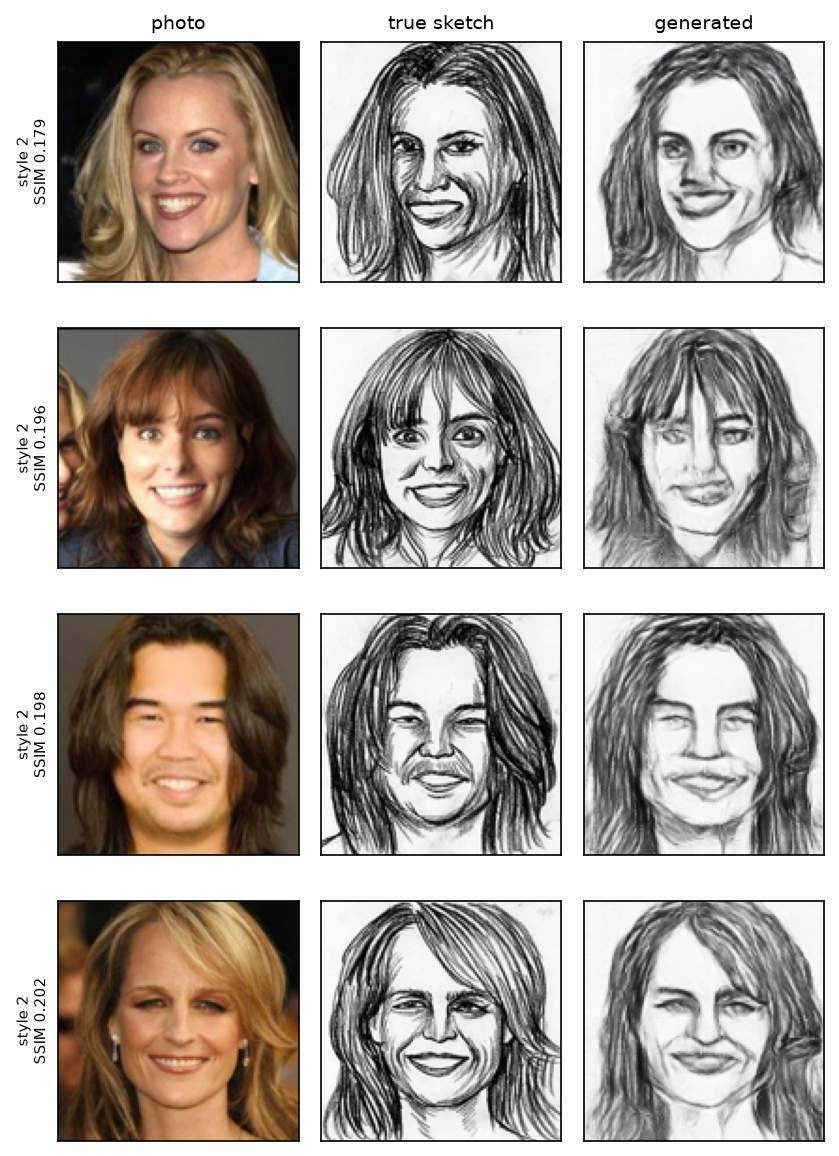
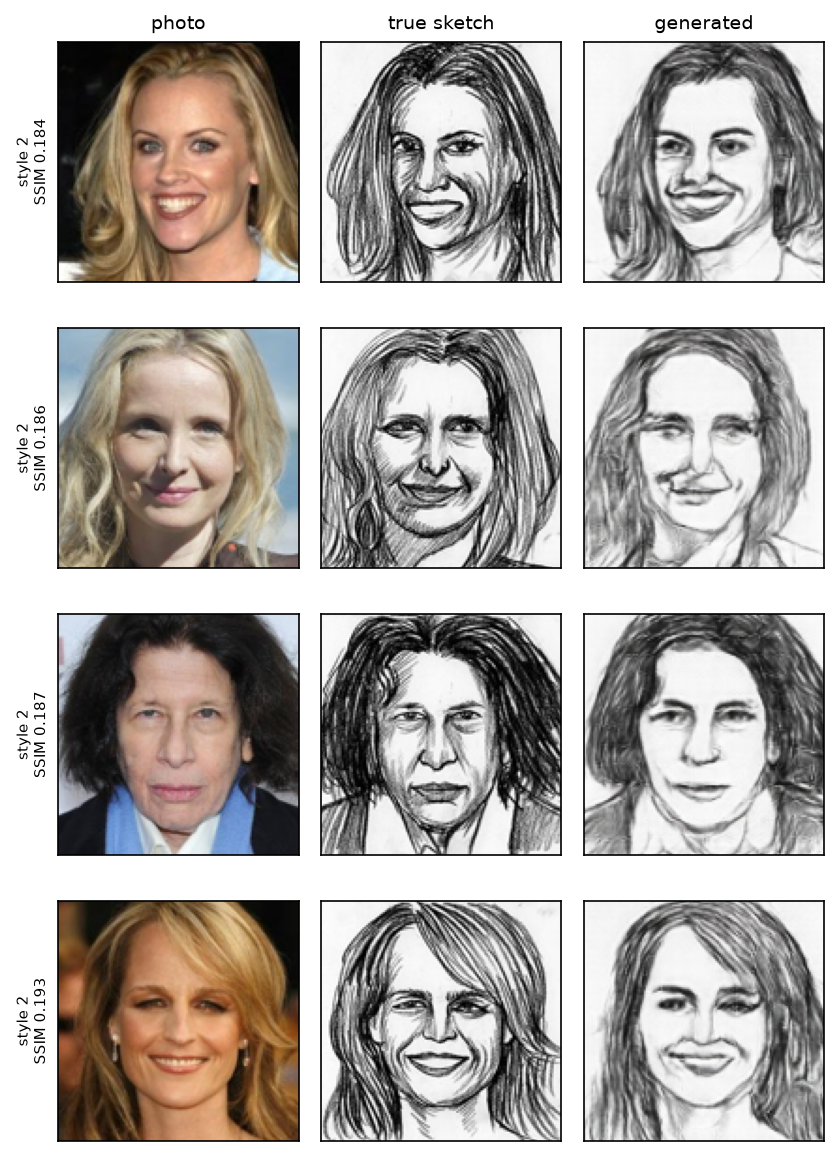
Adopt the 200-epoch Task 4 GAN (better validation objective) and update the report and documents

diff --git a/report/outputs_gallery.html b/report/outputs_gallery.html
@@ -262,7 +262,7 @@ p{margin:6px 0} nav a{margin-right:12px}
 <p class="file">report/figures/task4_cgan_curves.png</p>
 <p><span class="label">What it shows:</span> Discriminator real and fake loss, generator adversarial loss, generator L1, validation SSIM and objective per epoch.</p>
 <p><span class="label">How to read it:</span> Healthy GAN training: the losses oscillate but do not blow up.</p>
-<p><span class="label">What it means:</span> The discriminator slowly gains the upper hand (normal), nothing collapsed, and validation SSIM was still creeping up at epoch 100.</p>
+<p><span class="label">What it means:</span> The discriminator slowly gains the upper hand (normal) and nothing collapsed. Validation SSIM is flat after about 100 of the 200 epochs: the GAN had converged.</p>
 </div>
 <div class="card"><h3>Optuna search for Task 4</h3>
 <img src="figures/task4_cgan_optuna.png" alt="Optuna search for Task 4">

diff --git a/report/main.tex b/report/main.tex
@@ -1434,7 +1434,7 @@ range.
 \subsection{Training procedure and logging}
 Each iteration first updates $D$ on a real and a generated (detached) pair,
 then updates $G$. Both use Adam with $\beta=(0.5,0.999)$ and constant
-learning rates; the final configuration is trained for 100 epochs with the
+learning rates; the final configuration is trained for 200 epochs with the
 paired augmentation of Section~\ref{sec:data}. The discriminator real loss,
 discriminator fake loss, generator adversarial loss and generator L1 loss
 are logged separately every epoch, together with the validation L1, PSNR and
@@ -1462,8 +1462,11 @@ epochs are run (TPE, median pruner with three start-up trials and six
 warm-up epochs; reduced from twelve trials of 25 epochs for time); trial~0
 is fixed to the pix2pix-style defaults (learning rates
 $2\times10^{-4}$, batch size 4, $c=64$, dropout 0.5, $d_s=16$,
-$\lambda_{L1}=100$). The best configuration is then retrained for 100
-epochs (halved from the planned 200 for time). Batch size 1 was removed from
+$\lambda_{L1}=100$). The best configuration was first retrained for 100
+epochs to save time, and later, when time allowed, for the planned 200
+epochs; the 200-epoch model was kept because its validation objective was
+lower (0.3030 against 0.3073, best epochs 198 and 94). The test set was not
+used for this choice. Batch size 1 was removed from
 the search space because it made trials too slow. Table~\ref{tab:task4_space} gives the search space.
 
 \begin{table}[t]
@@ -1504,16 +1507,20 @@ its ONNX file is 168.5\,MB.
 \label{fig:task4_curves}
 \end{figure}
 
-Fig.~\ref{fig:task4_curves} shows the four losses logged separately. The
-discriminator's real and fake losses fall together from about 0.35 to 0.25,
-and the generator's adversarial loss rises from about 2.7 to 3.9: the
-discriminator slowly gains the upper hand, as is typical for pix2pix-style
-training, but neither loss collapses to zero and the L1 term keeps the
-generator anchored, so training did not diverge. The generator's L1 loss
-and the validation objective improve steadily, and validation SSIM rises
-from 0.41 to 0.48, still creeping upwards at epoch 100, so the halved
-schedule probably cost some quality. The fixed validation photographs logged
-to W\&B every 10 epochs show the sketches sharpening over time.
+Fig.~\ref{fig:task4_curves} shows the four losses of the 200-epoch run,
+logged separately. The discriminator's real and fake losses fall together
+from about 0.35 to about 0.22, and the generator's adversarial loss rises
+from about 2.7 to 4.5: the discriminator slowly gains the upper hand, as is
+typical for pix2pix-style training, but neither loss collapses to zero and
+the L1 term keeps the generator anchored, so training did not diverge. The
+validation SSIM rises from 0.41 to about 0.48 within the first 100 epochs
+and then stays flat, while the generator's training L1 keeps decreasing:
+after about 100 epochs the generator fits the training pairs more closely
+without becoming better on unseen ones. The test results confirm this: the
+100-epoch model scored SSIM 0.472 and the 200-epoch model 0.473 (PSNR 15.50
+and 15.37\,dB), so the longer schedule changed practically nothing. The
+fixed validation photographs logged to W\&B every 10 epochs show the
+sketches sharpening early in training.
 
 \begin{table}[t]
 \centering
@@ -1524,10 +1531,10 @@ to W\&B every 10 epochs show the sketches sharpening over time.
 \toprule
 Group & Count & L1 & PSNR & SSIM \\
 \midrule
-All     & 1046 & 0.1068 & 15.50 & 0.472 \\
-Style 1 & 619 & 0.0802 & 17.25 & 0.521 \\
-Style 2 & 381 & 0.1542 & 12.34 & 0.377 \\
-Style 3 & 46 & 0.0715 & 17.96 & 0.603 \\
+All     & 1046 & 0.1075 & 15.37 & 0.473 \\
+Style 1 & 619 & 0.0803 & 17.12 & 0.519 \\
+Style 2 & 381 & 0.1562 & 12.17 & 0.381 \\
+Style 3 & 46 & 0.0691 & 18.23 & 0.608 \\
 \bottomrule
 \end{tabular}
 \\[3pt]
@@ -1549,8 +1556,8 @@ Style 3 & 46 & 0.0715 & 17.96 & 0.603 \\
 \end{figure}
 
 On the official test split (Table~\ref{tab:task4_results}) the generated
-sketches reach SSIM 0.472 overall, with a clear split between styles: Style~2
-is much harder (SSIM 0.377) than Styles~1 and 3 (0.521 and 0.603). Style~2
+sketches reach SSIM 0.473 overall, with a clear split between styles: Style~2
+is much harder (SSIM 0.381) than Styles~1 and 3 (0.519 and 0.608). Style~2
 sketches are dense, high-contrast drawings with many individual hair
 strokes, whose exact positions cannot be predicted from the photograph, so
 any plausible stroke pattern is penalised pixel by pixel; Styles~1 and 3 are
@@ -1568,11 +1575,10 @@ sketch, while identity, pose and hairstyle are preserved across all three.
 \label{fig:task4_failures}
 \end{figure}
 All four lowest-SSIM test pairs (Fig.~\ref{fig:task4_failures}, SSIM
-0.18--0.20) are Style~2 portraits of smiling people with long, voluminous
-hair. The generated sketches are recognisable and in the right style, but
-the artist's individual hair strokes and the exaggerated smile lines are
-placed differently from the ground truth, and the generator's strokes are
-softer. These are therefore failures of the pixel-wise metric as much as of
+0.18--0.19) are Style~2 portraits of people with long, voluminous hair. The
+generated sketches are recognisable and in the right style, but the
+artist's individual hair strokes and facial lines are placed differently
+from the ground truth, and the generator's strokes are softer. These are therefore failures of the pixel-wise metric as much as of
 the model: SSIM cannot reward a plausible but different stroke pattern.
 
 \subsection{Discussion}
@@ -1599,7 +1605,9 @@ The wall-clock times below are taken from the W\&B run records; each epoch
 includes its validation pass. The final trainings took 43\,min for the
 Task~1 autoencoder (80 epochs; 44\,min for the skip variant), 2.8\,min for the
 classifier (25 epochs), about 19.5\,min for each specialist (40 epochs),
-22\,min for the mixture (17 epochs) and 34\,min for the GAN (100 epochs). The
+22\,min for the mixture (17 epochs) and 34\,min for the GAN (100 epochs;
+the 200-epoch retraining run took 70\,min in total, including data
+preparation). The
 Optuna searches took 114, 7, 33, 50 and 21\,min for Tasks~1, 2 (classifier),
 2 (specialists), 3 and 4 respectively. A Task~1 epoch on the laptop CPU
 would take far longer, which is why all training ran on the GPU.
@@ -1879,9 +1887,11 @@ trained configurations.}
   short run may differ from their ranking after full training, and the
   searches are coarse. The budgets of Tasks 2--4 were reduced from the
   original plan to meet the deadline.
-  \item \emph{Shortened final training.} The GAN was trained for 100 instead
-  of the planned 200 epochs and its validation SSIM was still rising, so its
-  quality is probably below what a full schedule would reach.
+  \item \emph{GAN plateau.} Doubling the GAN's final training from 100 to 200
+  epochs improved its validation objective only slightly and left its test
+  SSIM unchanged (0.472 and 0.473), so further gains would need more data,
+  a different loss (for example a perceptual term) or a larger resolution,
+  not longer training.
   \item \emph{Fixed validation weighting.} The objective $J$ uses the
   weights 0.8/0.2, which may slightly favour trials whose training $\alpha$
   or $\lambda_1$ is close to 0.8.
@@ -1949,8 +1959,9 @@ on mild degradations while keeping clean images almost intact, at three times
 the cost. The conditional GAN uses its learned style embedding visibly (the
 same face is drawn in three distinct styles), with the lowest scores on the
 dense Style~2 where the pixel metrics penalise plausible but different
-strokes. With more time we would run longer searches and a full-length GAN
-schedule, compare the specialists and the universal model under identical
+strokes; doubling its training from 100 to 200 epochs showed that it had
+already converged. With more time we would run longer searches, compare the
+specialists and the universal model under identical
 budgets, train with natural black borders to remove the black-region
 ambiguity, and add a perceptual loss to reduce the smoothing.
 
@@ -2196,6 +2207,15 @@ the assignment PDF and could not verify run times or the Kaggle GPU. The
 scripts were run and their output compared with the tables in this paper.
 % TODO: Pending item from docs/ai_use_log.md.
 \TODO{Pending: own reading of the guides.}
+\item \textbf{2026-10-04, Claude Code (Claude Opus).}
+\emph{Used for:} the decision to retrain the Task~4 GAN for 200 epochs, the
+retraining notebook, the comparison of the two models and the update of this
+paper.
+\emph{Verification:} the two models were compared on the validation
+objective stored in each checkpoint (0.3030 against 0.3073), not on the test
+set; the test evaluation was then run locally (SSIM 0.473 against 0.472) and
+the ONNX check of the new generator was read from the Kaggle output
+($1.4\times10^{-6}$). The earlier model and its test table are kept.
 \end{enumerate}
 
 \end{document}

diff --git a/scripts/build_gallery.py b/scripts/build_gallery.py
@@ -135,7 +135,7 @@ SECTIONS = [
         ("task4_cgan_curves.png", "Training curves",
          "Discriminator real and fake loss, generator adversarial loss, generator L1, validation SSIM and objective per epoch.",
          "Healthy GAN training: the losses oscillate but do not blow up.",
-         "The discriminator slowly gains the upper hand (normal), nothing collapsed, and validation SSIM was still creeping up at epoch 100."),
+         "The discriminator slowly gains the upper hand (normal) and nothing collapsed. Validation SSIM is flat after about 100 of the 200 epochs: the GAN had converged."),
         ("task4_cgan_optuna.png", "Optuna search for Task 4", "Trial scores and importances.", "Lower is better.",
          "8 trials, 3 completed, 5 pruned; the balance between the two learning rates and dropout matter most."),
     ]),

diff --git a/docs/STUDY_GUIDE.md b/docs/STUDY_GUIDE.md
@@ -444,7 +444,7 @@ Learn to turn a face photo into a sketch in a chosen style (Style 1, 2 or 3), us
 - Generator: `BCE(generated pair -> 1)  +  lambda_L1 * L1(true sketch, generated sketch)`.
 - Each step: update the discriminator on a real and a detached fake pair, then the generator.
 - **Logged separately every epoch** (as required): discriminator real loss, discriminator fake loss, generator adversarial loss, generator L1 loss, and validation L1/PSNR/SSIM overall and per style. The **same validation photographs** are logged as sample grids every 10 epochs, so you can watch the generator improve.
-- Adam with betas (0.5, 0.999); final run **100 epochs** (the brief allows shorter Optuna trials followed by a full retraining).
+- Adam with betas (0.5, 0.999); final run **200 epochs** (about 70 minutes; the brief allows shorter Optuna trials followed by a full retraining). A first final run of 100 epochs was replaced by the 200-epoch run because its **validation** objective was lower (0.3030 vs 0.3073); on the test set the two are practically identical (SSIM 0.473 vs 0.472), i.e. the GAN had converged by about epoch 100.
 
 ### 7.4 The Optuna search
 
@@ -456,16 +456,16 @@ Both learning rates, batch size, base channels, dropout, style-embedding size an
 
 | Group | Pairs | L1 | PSNR | SSIM |
 |---|---|---|---|---|
-| All | 1,046 | 0.107 | 15.5 dB | 0.472 |
-| Style 1 | 619 | 0.080 | 17.3 dB | 0.521 |
-| Style 2 | 381 | 0.154 | 12.3 dB | 0.377 |
-| Style 3 | 46 | 0.072 | 18.0 dB | 0.603 |
+| All | 1,046 | 0.108 | 15.4 dB | 0.473 |
+| Style 1 | 619 | 0.080 | 17.1 dB | 0.519 |
+| Style 2 | 381 | 0.156 | 12.2 dB | 0.381 |
+| Style 3 | 46 | 0.069 | 18.2 dB | 0.608 |
 
 **How to explain it:** Style 2 is much harder to score because it is a dense, high-contrast drawing with many individual hair strokes. A plausible stroke pattern in the "wrong" place is penalised pixel by pixel. Style 3's number rests on only 46 test images. Pixel metrics understate the visual quality of dense styles.
 
 - `task4_cgan_style_swap.png`: the same photo in all three styles: Style 1 light outline, Style 2 heavy dark shading, Style 3 soft toned sketch; identity and pose preserved. **This is the figure that proves the conditioning works.**
-- `task4_cgan_failures.png`: the four worst test pairs are all Style 2 portraits of smiling people with long, voluminous hair (SSIM 0.18 to 0.20): recognisable and in the right style, but strokes placed differently from the artist's.
-- Training curves (`task4_cgan_curves.png`): the discriminator's two losses fall together and the generator's adversarial loss rises slowly, so the discriminator gradually gains the upper hand, which is normal; nothing collapsed or diverged; validation SSIM rose from 0.41 to 0.48 and was still creeping upward at epoch 100, so more epochs would probably help (we halved the schedule for time).
+- `task4_cgan_failures.png`: the four worst test pairs are all Style 2 portraits of people with long, voluminous hair (SSIM 0.18 to 0.19): recognisable and in the right style, but strokes placed differently from the artist's.
+- Training curves (`task4_cgan_curves.png`): the discriminator's two losses fall together and the generator's adversarial loss rises slowly, so the discriminator gradually gains the upper hand, which is normal; nothing collapsed or diverged; validation SSIM rose from 0.41 to about 0.48 in the first 100 epochs and then stayed flat while the training L1 kept falling: the generator had converged, which is why 200 epochs gave the same test result as 100.
 
 ### 7.6 Where it lives
 
@@ -548,7 +548,7 @@ The brief says: "The complete application must run locally through Docker Compos
 | Task 2 routing | oracle = predicted = 23.63 dB / 0.705 (corrupted) |
 | Task 3 | 23.71 dB / 0.750 (corrupted); clean 62.4 dB / 0.999; tau 0.85; all 8 trials completed; no collapse |
 | Task 3 gate | high-severity weights 0.95 to 1.00 on the right expert; low blur 0.42 identity / 0.58 blur |
-| Task 4 | SSIM 0.472 overall (Style 1: 0.521, Style 2: 0.377, Style 3: 0.603); lambda_L1 = 121 |
+| Task 4 | SSIM 0.473 overall (Style 1: 0.519, Style 2: 0.381, Style 3: 0.608); lambda_L1 = 121; 200 epochs (100 epochs gave 0.472) |
 | Optuna studies | 5: 30, 12, 10, 8, 8 trials |
 | Training time | Task 1 final: 43 minutes (80 epochs); trials 2 to 6 minutes each |
 | ONNX agreement | largest PyTorch-ONNX difference about 1e-6 or less (limit 1e-4) |
@@ -562,7 +562,7 @@ The brief says: "The complete application must run locally through Docker Compos
 
 Say these yourself; they show understanding.
 
-1. **Reduced Optuna budgets and shorter final trainings** (Tasks 2 to 4) to meet the deadline; the searches are coarse and the GAN was still improving at epoch 100.
+1. **Reduced Optuna budgets and shorter final trainings** (Tasks 2 to 4) to meet the deadline; the searches are coarse. (The GAN was retrained for the full 200 epochs; it had already converged at about 100.)
 2. **Task 1's ceiling:** the bottleneck limits detail, so clean and mildly corrupted images are made slightly worse. Black backgrounds are mistaken for occlusions.
 3. **Specialists were not better than the universal model** on corrupted images, and the comparison is not perfectly controlled (different search sizes, epochs and bottleneck widths).
 4. **The fixed validation objective** (`0.8 * L1 + 0.2 * (1 - SSIM)`) slightly favours trials whose alpha is near 0.8.
@@ -671,7 +671,7 @@ Short model answers. Use your own words; the point is to understand the reasonin
 
 **39. What did the AI tools do, and what did you verify?** Be honest and specific. AI assistants wrote much of the code, drafted documents and helped debug; every use is logged in `docs/ai_use_log.md`. You ran the training, designed the interface in Stitch, ran and checked results, and you must be able to explain the code. Say which files you have read and understood (see Part 16). The brief allows AI use but requires that you verify and understand everything.
 
-**40. What would you improve with more time?** Longer Optuna searches and trainings (especially the GAN), a fairer specialist-versus-universal comparison, a wider bottleneck or a perceptual loss to reduce smoothing, better handling of black backgrounds (for example training with images that have black borders), and public hosting.
+**40. What would you improve with more time?** Longer Optuna searches, a fairer specialist-versus-universal comparison, a wider bottleneck or a perceptual loss to reduce smoothing, better handling of black backgrounds (for example training with images that have black borders), and public hosting.
 
 ---
 

diff --git a/docs/ai_use_log.md b/docs/ai_use_log.md
@@ -21,3 +21,4 @@ Add a row each time a tool is used. For each row, say what the tool produced and
 | 2026-10-03 | Claude Code (Claude Opus), with one subagent | Restyling the React frontend to match my Google Stitch screens (`frontend/`); mock-up placeholders in the Stitch screens (PSNR and VRAM badges, made-up latencies, "4 of 4 models") were replaced by real backend values or removed | The subagent compared headless-Chrome screenshots of every page with the Stitch PNGs in two rounds and ran a real Universal Restoration request on a sample; `npm run build` passed and the rebuilt Docker stack served the new interface. Pending: my own visual check of every page. |
 | 2026-10-03 | Claude Code (Claude Opus) | Putting the Kaggle results into the repository and writing the results sections of the report (Tasks 1 to 4, the comparison of Tasks 1 to 3, abstract, limitations, conclusion), plus `src/evaluation/plot_optuna.py` and `plot_curves.py` (figures from the Optuna databases and W&B) | Every number in the tables was copied from the CSV files and Optuna databases and can be re-printed with `scripts/show_results.py`. The tool viewed the figures and wrote its descriptions of them into the text. The Task 4 test evaluation was rerun locally after the Kaggle run failed on a missing cache file. A statement about the Kaggle GPU model ("T4") that the tool had written without evidence was removed. Pending: my own check of each interpretive sentence against the figures and tables, and the Kaggle GPU model and run times. |
 | 2026-10-03 | Claude Code (Claude Opus), with one subagent | Writing my study documents: `docs/STUDY_GUIDE.md`, `docs/testing_and_outputs_guide.md`, `scripts/show_results.py`, `scripts/build_gallery.py` (writes `report/outputs_gallery.html`), `scripts/demo_temperature.py` | A second subagent compared every claim with the code, configs, result files and Optuna databases and made 5 corrections (the style-number range of the API, when the backend loads its models, a wrong statement about the report, a missing warning that `--mode optuna` appends to the existing study and overwrites the `_best.yaml`, and a folder path); I applied 6 further rewordings it suggested. It could not read the assignment PDF and could not verify run times or the Kaggle GPU. The scripts were run and their output compared with the report tables. Pending: my own reading of the guides. |
+| 2026-10-04 | Claude Code (Claude Opus) | Deciding to retrain the Task 4 GAN for 200 epochs (W&B showed 100 epochs took 33.7 min), writing `notebooks/kaggle_task4_retrain.ipynb`, comparing the new model with the old one and updating the report and documents | The choice between the two models was made on the validation objective stored in each checkpoint (0.3030 against 0.3073), not on the test set; the test evaluation was then run locally (SSIM 0.473 against 0.472) and the ONNX check of the new generator read from the Kaggle output (1.43e-06). The old model and its test table are kept for comparison. |

diff --git a/docs/testing_and_outputs_guide.md b/docs/testing_and_outputs_guide.md
@@ -161,7 +161,7 @@ Every restoration table has the same columns: `condition`, `severity`, `count` (
 | `task3_moe_test_metrics.csv` | Task 3 restoration | Clean 62 dB (almost untouched); corrupted 23.71 dB |
 | `task3_moe_mean_weights.csv` | **The gate's average weights** per true corruption and severity | Each row's biggest number is the expert used |
 | `task3_moe_expert_health.csv` | Is any expert unused or dominating? | All `inactive` and `dominates_unrelated` are False |
-| `task4_cgan_test_metrics.csv` | Sketch quality overall and per style | SSIM 0.472; Style 2 lowest |
+| `task4_cgan_test_metrics.csv` | Sketch quality overall and per style (200-epoch model; `task4_cgan_100ep_test_metrics.csv` is the earlier 100-epoch model) | SSIM 0.473; Style 2 lowest |
 | `*_onnx_check.json` | PyTorch output vs ONNX output on real images | `max_abs_diff` about 1e-6; the limit is 1e-4 |
 
 ### 5.3 The figures (`report/figures/`)
@@ -186,7 +186,7 @@ The gallery explains all of them. The essentials:
 | `task3_moe_failures.png` | Worst cases with the four weights in the labels | Tells routing errors from expert errors |
 | `task4_cgan_style_swap.png` | The same face in Styles 1, 2, 3 | **Proof that the style condition works** |
 | `task4_cgan_examples.png`, `task4_cgan_failures.png` | Photo, true sketch, generated sketch | Typical results, and the four worst (all Style 2, long hair) |
-| `task4_cgan_curves.png` | Discriminator losses, generator losses, validation score | A healthy GAN: nothing collapsed, still improving |
+| `task4_cgan_curves.png` | Discriminator losses, generator losses, validation score | A healthy GAN: nothing collapsed; validation flat after about 100 epochs |
 
 ### 5.4 The Optuna studies (`optuna_studies/`)
 

diff --git a/docs/decision_log.md b/docs/decision_log.md
@@ -357,7 +357,7 @@ Copy this block for each new decision.
   - Retrain 200 epochs with the same settings: no new search, so the Optuna study and the other results stay valid.
   - Rerun the searches of Tasks 2 to 4 with the original budgets: would change many numbers and the Task 3 starting point; too much rework for the time left.
 - **Sources consulted:** W&B run durations (queried with the W&B API on 2026-10-04): the 100-epoch final run of Task 4 took 33.7 minutes, so 200 epochs should take about 70 minutes.
-- **Experiment and numbers:** TODO after the run: validation objective and test metrics of the 200-epoch model against the 100-epoch model.
+- **Experiment and numbers:** Kaggle run of 4,182 s (about 70 minutes including data preparation). Best epoch 198 with validation objective 0.3030 and validation SSIM 0.492, against best epoch 94, 0.3073 and 0.487 for the 100-epoch model, so the 200-epoch model was adopted. Test set afterwards (not used for the choice): SSIM 0.473 against 0.472, PSNR 15.37 against 15.50 dB; per style 0.519 / 0.381 / 0.608 against 0.521 / 0.377 / 0.603. The validation SSIM curve is flat after about epoch 100 while the training L1 keeps falling: the GAN had converged, so the longer schedule changed practically nothing. The 100-epoch model is kept as `checkpoints/task4_cgan_100ep.pt` and its test table as `report/results/task4_cgan_100ep_test_metrics.csv`.
 - **Choice and why:** Retrain, because it is cheap and restores the planned schedule; the first model is kept as a fallback and the comparison is reported.
 - **Report section it feeds:** Task 4 training procedure; limitations.
 
